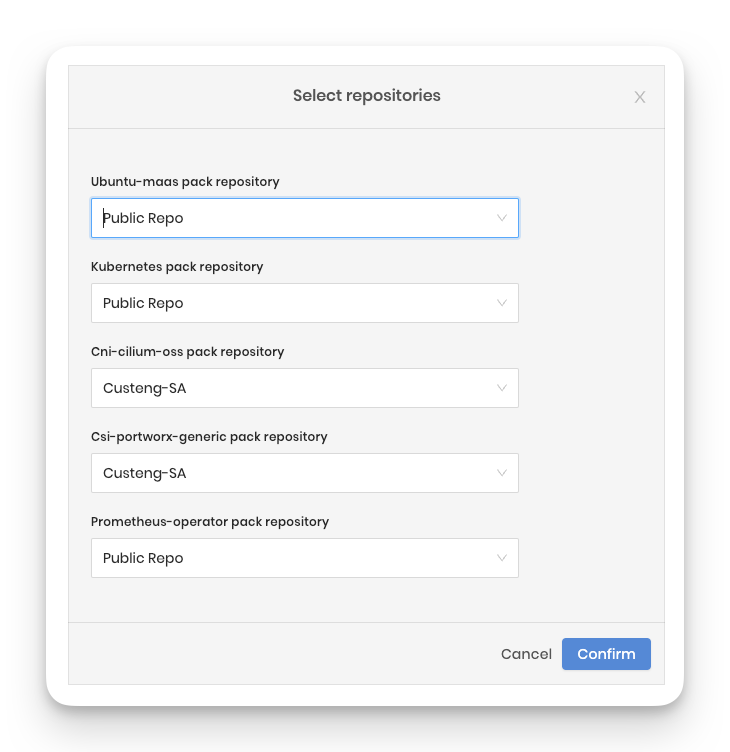
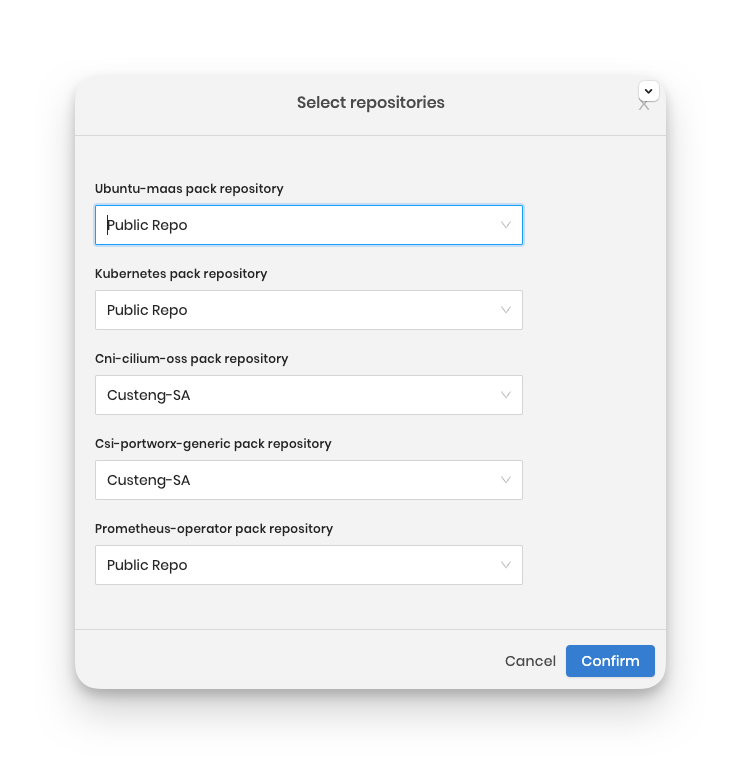
Fixed one diagram, added a second diagram

diff --git a/docs/docs-content/profiles/cluster-profiles/export-import-cluster-profile.md b/docs/docs-content/profiles/cluster-profiles/export-import-cluster-profile.md
@@ -33,6 +33,7 @@ Use these steps to export the profile as a `.json` file.
 During profile export, Palette masks sensitive pack values, which you must update after profile import.
 :::
 
+
 ## Import Cluster Profile
 
 Use these steps to import the profile to one or more projects or tenants.
@@ -47,29 +48,29 @@ Use these steps to import the profile to one or more projects or tenants.
 
 5. In the slide panel that opens at right, click the **Upload file** button. 
 
-6. Navigate to the downloaded `.json` file and select it so that it opens in the slide panel.
 
-<<< Placeholder image>>>
+
+6. Navigate to the downloaded `.json` file and select it so that it opens in the slide panel as shown in the diagram.
+
+![diagram](/profiles_cluster-profiles_json-to-import.png)
 
 7. Click the **Validate** button. Palette checks for duplicate profile names and versions in the target environment and displays an error message if it finds them. 
 
 8. If Palette displays an error message, customize the profile name or version number to fix any issues. 
 
-9. In the **Select repositories** window that displays when the profile is successfully validated, use the **drop-down Menus** to select one or more repositories 
+9. In the **Select repositories** window that displays when the profile is successfully validated, use the **drop-down Menus** to select one or more repositories in which profile packs exist so Palette can fetch them.
 
-When the profile is successfully validated, Palette displays the **Select repositories** window. 
+  :::info
+  If any of the packs are missing in the target environment, profile import will not proceed.
+  :::
 
 <!-- which lists all the repositories that contain packs used in the profile you are importing. -->
 
 ![diagram](/profiles_cluster-profiles_import-select-repos.png)
 
-10. Using the **drop-down Menus**, select one or more repositories from which to fetch packs that are in the profile you are importing. Confirm your selections. 
+<!-- 10. Using the **drop-down Menus**, select one or more repositories from which to fetch packs that are in the profile you are importing. Confirm your selections.  -->
 
-:::info
-If any of the packs are missing in the target environment, the import will not proceed to the next step.
-:::
-
-11. Click the **Confirm** button in the slide panel to complete the import.
+11. Click the **Confirm** button to complete the import.
 
 You have successfully imported the profile and can use it for standard cluster operations such as deployments and updates in the new environment.
 
@@ -77,7 +78,7 @@ You have successfully imported the profile and can use it for standard cluster o
 
 1. Log in to [Palette](https://console.spectrocloud.com) as a tenant admin.
 
-2. Select the project or tenant ppppp imported the cluster profile.
+2. Select the project or tenant where you imported the cluster profile.
 
 3. From the left **Main Menu**, select **Profiles**.
 
